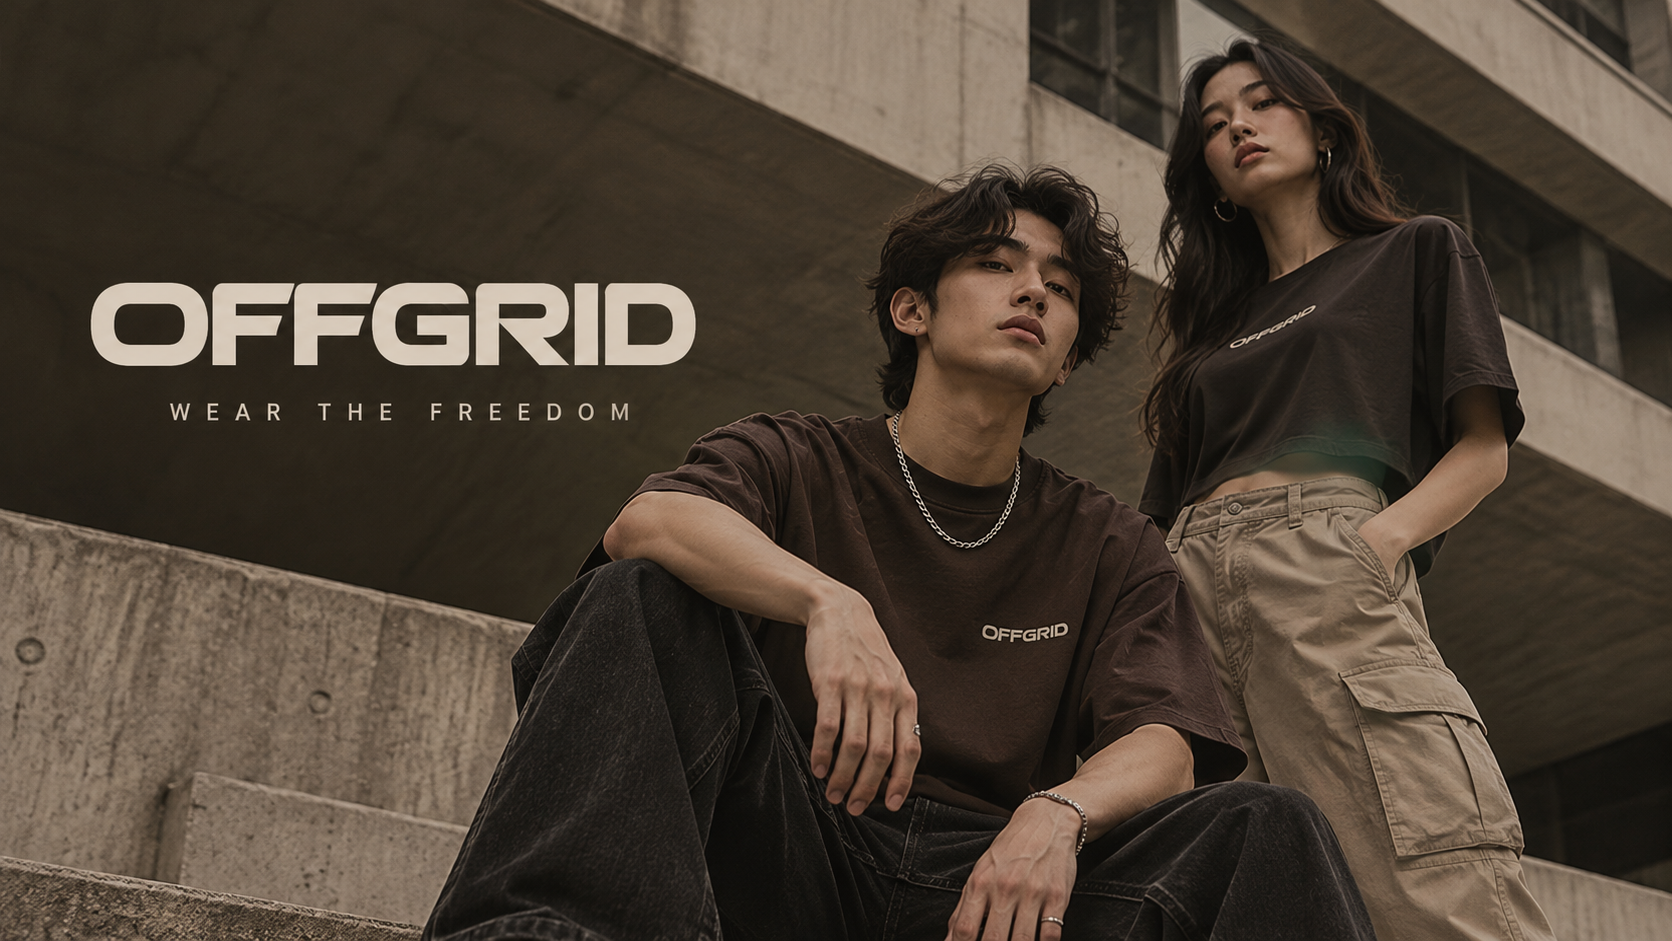
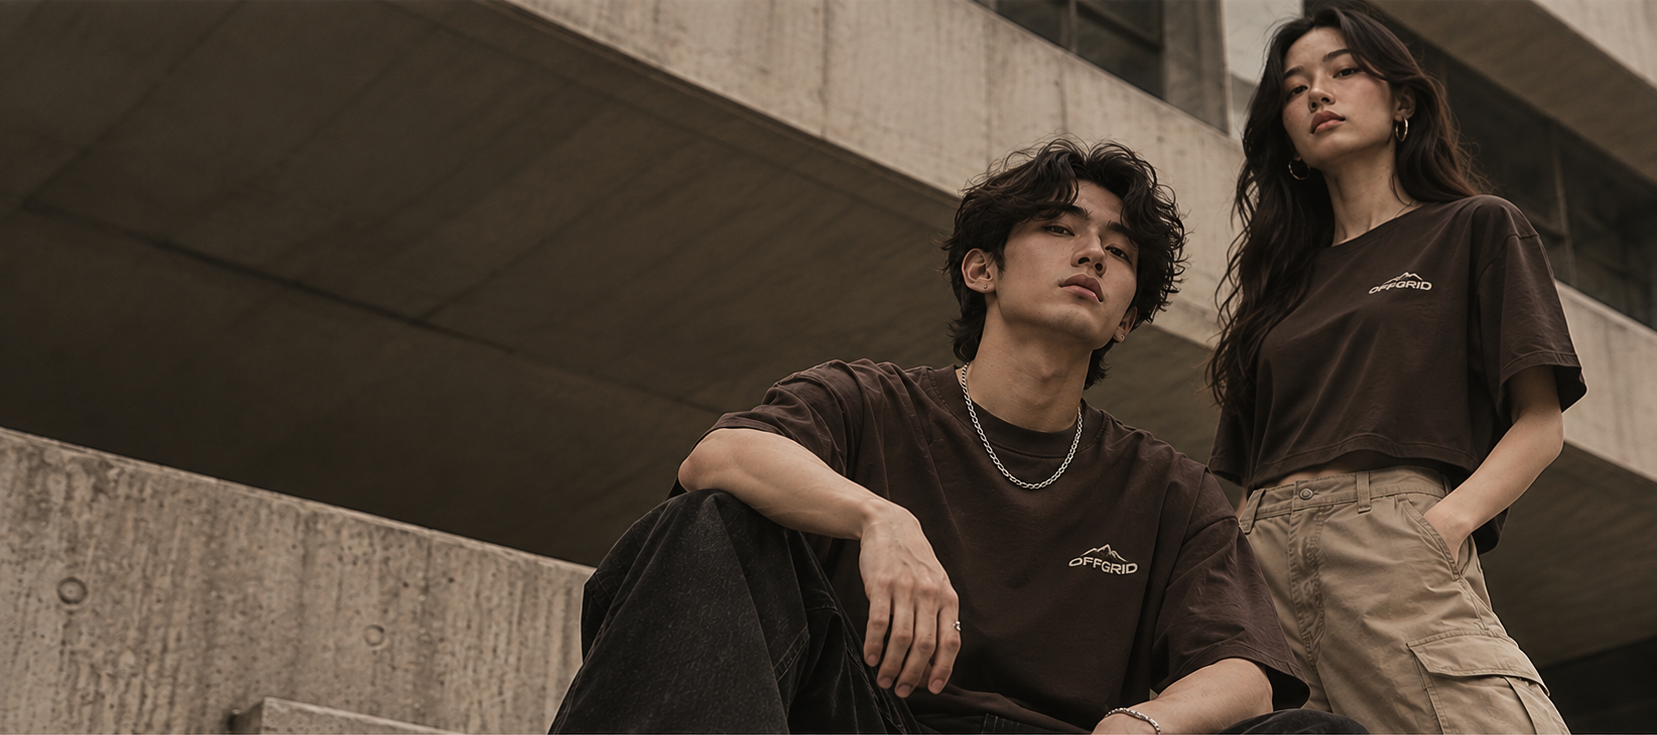
footer and section edits

diff --git a/index.html b/index.html
@@ -11,7 +11,7 @@
 </head>
 <body>
     <header id="top">
-        <img src="images/logo.png" id="logo">
+        <img src="images/logo.png" id="logo" alt="logo.png">
         <nav>
             <a href="#top" class="top nav">Home</a>
             <a href="#newArrivals" class="top nav">Arrivals</a>
@@ -25,7 +25,8 @@
     <main>
         <section id ="banner">
             <p id="brban">OFFGRID</p>
-            <p id="bigline">WEAR THE FREEDOM</p>
+            <p id="bigline">WEAR</p>
+            <p id="bigline">THE FREEDOM</p>
             <p id="tag">Minimal streetware. Maximum comfort.</p>
             <a href="#Products">SHOP NOW &rarr;</a>
 
@@ -49,19 +50,33 @@
             </section>
 
         </section>
-        <section id="sizes">
-            <h2 class="mainParts">SIZE GUIDES</h2>
+        <section id="sandS">
+            <section id="sizes" class="cards">
+                <details>
+                    <summary class="mainParts">SIZE GUIDE</summary>
+                    <div>
+                        <div class="sizeCard">
+                            <img src="images/men.png">
+                        </div>
+                        <div class="sizeCard">
+                            <img src="images/women.png">
+                        </div>
+                    </div>
 
-        </section>
-        <section id="Locations">
-            <h2 class="mainParts">STORE LOCATIONS</h2>
-            <img src="images/maps.png" alt="map">
-
+                </details>
+            </section>
+            <section id="Locations" class="cards">
+                <details>
+                <summary class="mainParts">STORE LOCATIONS</summary>
+                <div>
+                    <img src="images/maps.png" alt="map">
+                </div>
+                </details>
+            </section>
         </section>
         <section id="about">
             <h2 class="mainParts">ABOUT US</h2>
-            <p>
-                OFFGRID is a streetwear clothing brand that offers oversized T-shirts, graphic tees,
+            <p id="aboutsec">OFFGRID is a streetwear clothing brand that offers oversized T-shirts, graphic tees,
 hoodies, sweatshirts, baggy pants, cargo pants, jorts, jackets, and other outerwear. It targets
 teenagers and young adults aged 13–25 who are interested in modern streetwear. The
 brand combines minimalist designs with comfortable, relaxed fits, offering affordable to
@@ -69,14 +84,28 @@ mid-range clothing without compromising on quality and style.
             </p>
 
         </section>
-        <section id="Contact">
-            <h2 class="mainParts">Contact us on</h2>
-
-        </section>
     </main>
 </body>
 
-<footer>
-    <h6 class="footer">Contact:</h6>
-    <p class="footer">ashdahduhdauhdauhdaudaudhaudhuahduahudahuadh</p>
+<footer id="Contact">
+    <div class="footer">
+        <h4>Contact:</h4>
+        <ul>
+            <li>Email: offgrid@gmail.com</li>
+            <li>Phne: +63 XXX XoXX XXXX</li>
+            <li>Location: Philippines</li>
+        </ul>
+    </div>
+    <div class="footer">
+        <h4>Follow us</h4>
+        <ul>
+            <li>Instagram: @offgrid</li>
+            <li>Facebook: OFFGRID</li>
+        </ul>
+    </div>
+    <div class="bottom">
+        <h6>© 2026 OFFGRID. All Rights Reserved.</h6>
+        <h6>Developed by: Camarillas, Jayson c.</h6>
+    </div>
+
 </footer>

diff --git a/css/style.css b/css/style.css
@@ -1,3 +1,15 @@
+/* COLOR PALETTE
+   Ivory        - #F5F0E6
+   Beige        - #D8C3A5
+   Taupe        - #A68F78
+   Dark Brown   - #30251F
+   Warm Brown   - #4A3428
+   Coffee Brown - #70513D
+   Mocha        - #8C735E
+*/
+
+
+/* top part*/
 #top {
     position: fixed;
     background-color: #30251F;
@@ -18,7 +30,7 @@
     padding-left: 50px;
     padding-right: 50px;
     padding-top: 13px;
-    padding-bottom: 13px;
+    padding-bottom: 13px; 
 
 }
 
@@ -40,23 +52,23 @@
     text-decoration: underline;
     transform: scale(1.2);
 }
-
+ /*banner*/
 #banner{
     position: relative;
     background-image: url("../images/banner.png");
     background-size: 100% auto;
-    background-position: center;
+    background-position: top;
     background-repeat: no-repeat;
     height: auto;
     aspect-ratio: 16/9;
     width: 100%;
     display: flex;
     flex-direction: column;
-    justify-content: center;
+    justify-content: flex-start;
     align-items: flex-start;
-    padding-left: 10%;
-    box-sizing: border-box;
+    padding-left: 55px;
     margin-top: 55px;
+    padding-top: 130px;
 }
 
 
@@ -70,6 +82,7 @@
     word-spacing: 5px;
     letter-spacing: 2px;
     font-size: 15px;
+    margin-left: 70px;
 }
 
 #banner a:hover{
@@ -79,7 +92,12 @@
 
 #bigline{
     color: #D8C3A5;
-    font-size: 50px;
+    font-size:70px;
+    margin: 5px 0;
+    font-family: "poppins",sans-serif;
+    font-weight: bold;
+    padding-left: 70px;
+    line-height: 1;
 }
 
 #brban{
@@ -87,10 +105,14 @@
     font-family: 'Orbitron', sans-serif;
     font-weight: 900;
     font-size: 25px;
+     padding-left: 70px;
+    margin: 5px 0;
 }
 
 #tag {
     color: #F5F0E6;
+    padding-left: 70px;
+    margin: 7px 0;
 }
 
 nav {
@@ -98,7 +120,7 @@ nav {
     font-weight: 600;
 }
 
-
+/*body*/
 
 body{
     margin: 0;
@@ -108,21 +130,7 @@ body{
     
 }
 
-footer{
-    background-color: #D8C3A5;
-    color: #70513D;
-    display: flex;
-    width: 100%;
-    align-items: flex-start;
-}
 
-.footer{
-    padding: 40px;
-}
-
-footer p{
-    padding: 0;
-}
 
 main section {
     scroll-margin-top: 70px;
@@ -157,7 +165,48 @@ main section {
     border-bottom-right-radius: 20%;
 }
 
+#sandS {
+    display: flex;
+    justify-content: space-between;
+}
 
+#about {
+    margin: 30px 100px;
+    text-indent: 50px;
+    color: #70513D;
+}
+
+.cards{
+    background-color: #D8C3A5;
+}
+
+/*footer*/
+
+footer{
+    background-color: #D8C3A5;
+    color: #70513D;
+    display: flex;
+    flex-wrap: wrap;
+    justify-content: center;
+    width: 100%;
+    align-items: flex-start;
+
+}
+
+.footer{
+    padding: 20px 200px;
+}
+
+footer p{
+    padding: 0;
+}
+
+.bottom{
+    width: 100%;
+    display: flex;
+    justify-content: center;
+    padding: 10px 0px;
+}
 
 /*img {width: 100%;
 height: auto;
